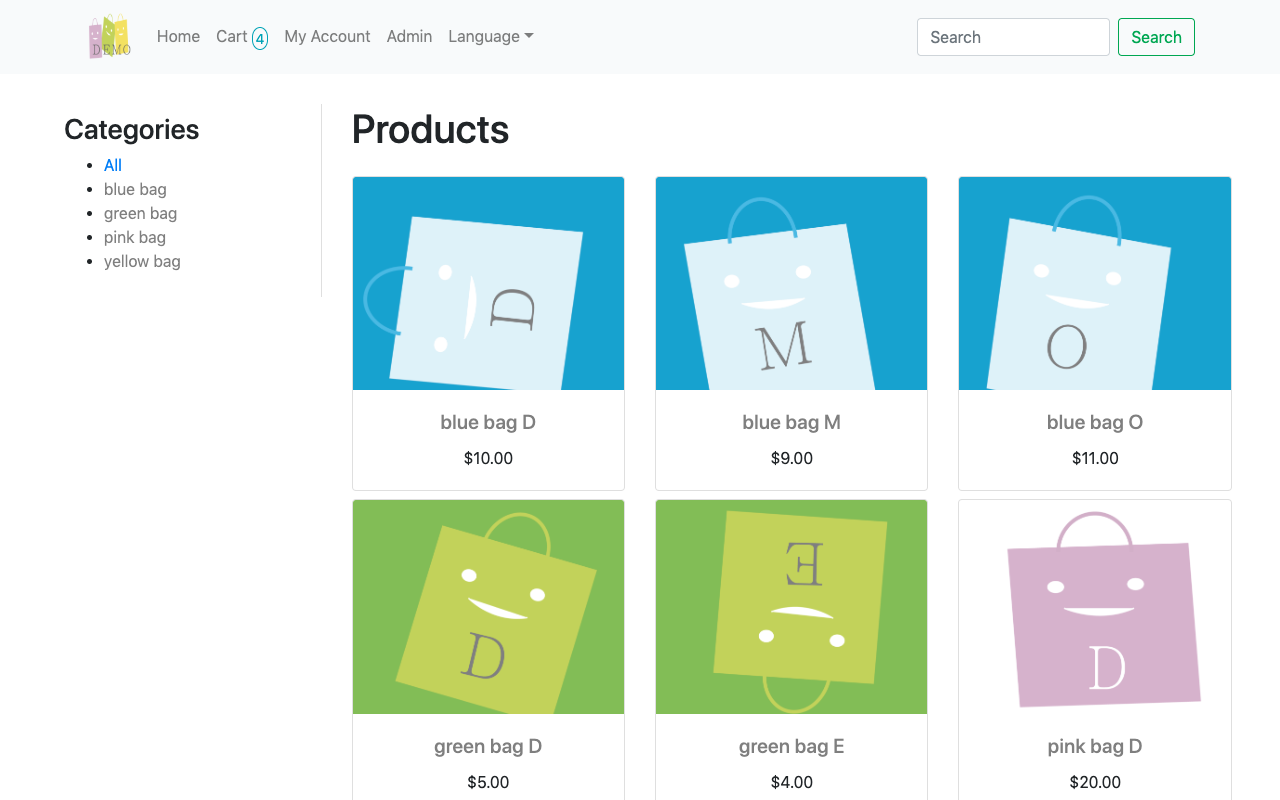
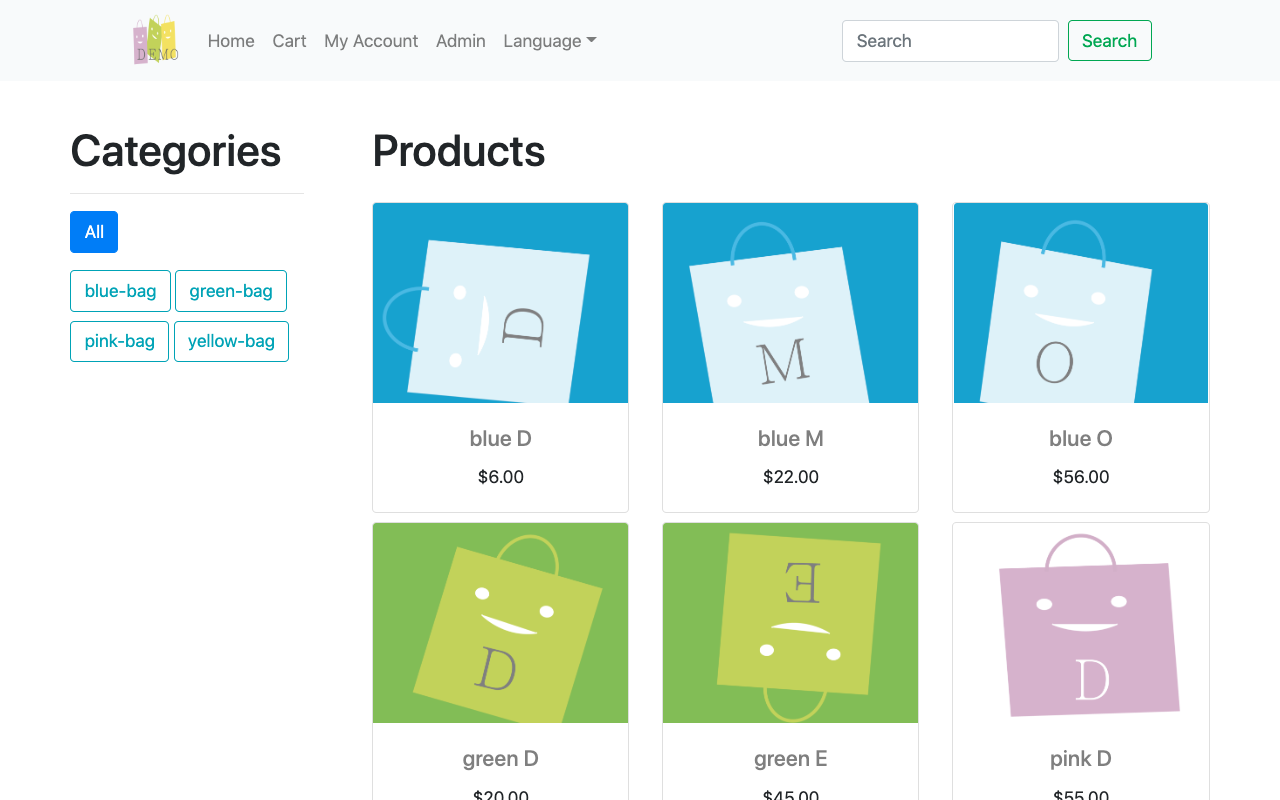
Fix RWD

diff --git a/demo/templates/shop/homepage.html b/demo/templates/shop/homepage.html
@@ -13,8 +13,8 @@
 <!-- jumbotron - Techniques & Tools -->
 <div class="jumbotron jumbotron-fluid mt-5 text-center demo-white">
     <div class="container">
-        <h1 class="display-3">{% trans "Techniques & Tools" %}</h1>
-        <div class="row mt-4">
+        <h1 class="display-5">{% trans "Techniques & Tools" %}</h1>
+        <div class="row px-4 mt-5">
             <div class="col-md-3 col-lg-3 col-xl-3 mt-3">
                 <img src="{% static 'images/Django.jpg' %}" width="80%" height="70%">
                 <p class="lead mt-2">{% trans "Backend - Django" %}</p>
@@ -24,8 +24,8 @@
                 <p class="lead mt-2">{% trans "Frontend - Bootstrap" %}</p>
             </div>
             <div class="col-md-3 col-lg-3 col-xl-3 mt-3">
-                <img src="{% static 'images/SQLite.jpg' %}" width="80%" height="70%">
-                <p class="lead mt-2">{% trans "Database - SQLite" %}</p>
+                <img src="{% static 'images/MySQL.png' %}" width="80%" height="70%">
+                <p class="lead mt-2">{% trans "Database - MySQL" %}</p>
             </div>
             <div class="col-md-3 col-lg-3 col-xl-3 mt-3">
                 <img src="{% static 'images/Redis.png' %}" width="80%" height="70%">
@@ -54,8 +54,8 @@
 <!-- jumbotron - About -->
 <div class="jumbotron jumbotron-fluid mt-5 text-center demo-sky-blue">
     <div class="container">
-        <h1 class="display-1">{% trans "About" %}</h1>
-        <p class="lead">{% trans "This is a demo shopping site, you can sign in in with social media accounts,<br> add goods to your cart, and receive an email after checking out." %}</p>
+        <h1 class="display-5">{% trans "About" %}</h1>
+        <p class="lead">{% trans "This is a demo shopping site, you can sign in in with third-party accounts,<br> add goods to your cart, and receive an email after checking out." %}</p>
     </div>
 </div>
 <!--/ jumbotron - About -->
@@ -63,10 +63,10 @@
 <!-- categories -->
 <div class="container-fluid px-5 mt-5">
     <div class="mt-5 text-center">
-        <h1 class="display-4">{% trans "Categories" %}</h1>
+        <h1 class="display-5">{% trans "Categories" %}</h1>
     </div>
 
-    <div class="row px-5 mt-5">
+    <div class="row px-4 mt-5">
         {% for category in categories %}
             <div class="col-md-3 col-lg-3 col-xl-3 mt-3">
                 <div class="card">
@@ -98,24 +98,24 @@
     <div class="container">
         <h1 class="display-5">{% trans "Contact Me" %}</h1>
         <div class="row mt-4">
-            <div class="col-3" title="github">
+            <div class="col-md-3 col-lg-3 col-xl-3 mt-3" title="github">
                 <a href="https://github.com/ZoeLiao">
                     <img src="{% static 'images/github.svg' %}" width="60%" height="60%">
                 </s>
             </div>
-            <div class="col-3" title="medium">
+            <div class="col-md-3 col-lg-3 col-xl-3 mt-3" title="medium">
                 <a href="https://medium.com/@zoejoyuliao">
                     <img src="{% static 'images/medium.svg' %}" width="60%" height="60%">
                 </s>
             </div>
-            <div class="col-3" title="blog">
+            <div class="col-md-3 col-lg-3 col-xl-3 mt-3" title="blog">
                 <a href="https://zoeliao.netlify.com/">
                     <img src="{% static 'images/netlify.png' %}" width="50%" height="60%">
                 </a>
             </div>
-            <div class="col-3" title="email">
+            <div class="col-md-3 col-lg-3 col-xl-3 mt-3" title="email">
                 <a href="mailto:zoejoyuliao@gmail.com">
-                    <img src="{% static 'images/mail.png' %}" width="50%" height="60%">
+                    <img src="{% static 'images/mail.png' %}" width="40%" height="50%">
                 </a>
             </div>
         </div>

diff --git a/demo/templates/shop/product/list.html b/demo/templates/shop/product/list.html
@@ -2,10 +2,6 @@
 {% load i18n %}
 {% load static %}
 
-{% block extra_style_sheet %}
-<link href="{% static 'css/list.css' %}" rel="stylesheet">
-{% endblock %}
-
 {% block title %}
     {% if category %}
         {{ category.name }}
@@ -18,23 +14,23 @@
     <div class="container-fluid px-5 mt-5">
         <div class="row">
             <div class="col-md-3 col-lg-3 col-xl-3">
-                <div class="sidebar_nav px-3 py-2">
-                    <h3>{% trans "Categories" %}</h3>
-                    <ul>
-                        <li {% if not category %} class="selected" {% endif %}>
-                            <a href="{% url 'shop:product_list' %}" {% if category.slug != c.slug %}class="demo-link demo-text-black"{% endif %}>{% trans "All" %}</a>
-                        </li>
+                <div class="px-3 py-2">
+                    <h1>{% trans "Categories" %}</h1>
+                    <hr>
+                    <div class="mt-3">
+                        <div class="mb-3">
+                            <button onclick="window.location.href='{% url 'shop:product_list' %}'" class="btn btn-outline-primary {% if category.slug == c.slug %}active{% endif %}">{% trans "All" %}</button>
+                        </div>
+
                         {% for c in categories %}
-                        <li {% if category.slug == c.slug %} class="selected" {% else %}{% endif %}>
-                            <a href="{{ c.get_absolute_url }}" {% if category.slug != c.slug %}class="demo-link demo-text-black"{% endif %}>{{ c.name }}</a>
-                            </li>
+                            <button onclick="window.location.href='{{ c.get_absolute_url }}'" class="btn btn-outline-info mb-2 {% if category.slug == c.slug %}active{% endif %}">{{ c.name }}</button>
                         {% endfor %}
-                    </ul>
+                    </div>
                 </div>
             </div>
 
             <div class="col-md-9 col-lg-9 col-xl-9">
-                <div id="main" class="product-list">
+                <div id="main" class="product-list px-3 py-2">
                     <h1>
                         {% if category %}
                             {{ category.name }}

diff --git a/demo/templates/shop/carousel.html b/demo/templates/shop/carousel.html
@@ -9,22 +9,22 @@
         </ol>
         <div class="carousel-inner">
             <div class="carousel-item active">
-                <img src="{% static "images/carousel_01.png"%}" class="d-block w-100" alt="carousel_01">
-                <div class="carousel-caption d-none d-md-block">
+                <img src="{% static "images/carousel_01.png"%}" class="d-block w-100 h-50vh" alt="carousel_01">
+                <div class="carousel-caption d-md-block">
                     <h1 class="carousel-slide-label">DEMO</h1>
                     <p class="carousel-slide-des">{% trans "This is a demo shopping site" %}</p>
                 </div>
             </div>
             <div class="carousel-item">
-                <img src="{% static "images/carousel_02.png"%}" class="d-block w-100" alt="carousel_02">
-                <div class="carousel-caption d-none d-md-block">
-                    <h1 class="carousel-slide-label">{% trans "Product Categories for selling" %}</h1>
+                <img src="{% static "images/carousel_02.png"%}" class="d-block w-100 h-50vh" alt="carousel_02">
+                <div class="carousel-caption d-md-block">
+                    <h1 class="carousel-slide-label">{% trans "Categories" %}</h1>
                     <p class="carousel-slide-des">{% trans "Bags with blue, pink, yellow and green" %}</p>
                 </div>
             </div>
             <div class="carousel-item">
-                <img src="{% static "images/carousel_03.png"%}" class="d-block w-100" alt="carousel_03">
-                <div class="carousel-caption d-none d-md-block">
+                <img src="{% static "images/carousel_03.png"%}" class="d-block w-100 h-50vh" alt="carousel_03">
+                <div class="carousel-caption d-md-block">
                     <h1 class="carousel-slide-label">{% trans "Products" %}</h1>
                     <p class="carousel-slide-des">{% trans "Blue, pink, yellow, and green bags contain different letters" %}</p>
                 </div>

diff --git a/demo/templates/shop/product/detail.html b/demo/templates/shop/product/detail.html
@@ -17,18 +17,18 @@
 {% block content %}
     <div class="container-fluid px-5 mt-5">
         <div class="row">
-            <div class="col-4">
+            <div class="col-md-4 col-lg-4 col-xl-4 mb-3">
                 <img src="{% if product.image %}{{ product.image.url }}{% else %}{% static 'images/no_image.png' %}{% endif %}" style="width:100%;height:100%">
             </div>
 
-            <div class="col-8">
+            <div class="col-md-8 col-lg-8 col-xl-8 mt-8">
                 <div class="card text-center">
                     <div class="card-header">
                         <h3>{{ product.name }}</h3>
                     </div>
                     <div class="card-body">
                         <h5 class="card-title">
-                            <a href="{{ product.category.get_absolute_url }}">{{ product.category }}</a>
+                            <button class="btn btn-outline-info" onclick="window.location.href='{{ product.category.get_absolute_url }}'">{{ product.category }}</button>
                         </h5>
                         <p class="card-text">{{ product.description|linebreaks }}</p>
                         <p class="card-text demo-price">${{ product.price }}</p>

diff --git a/demo/static/css/base.css b/demo/static/css/base.css
@@ -1,15 +1,17 @@
 
-@media (min-width: 992px)
-.navbar-expand-lg .navbar-collapse {
-    display: flex !important;
+@media (min-width: 768px) {
+    .navbar-expand-lg .navbar-collapse {
+        display: flex !important;
+    }
 }
 
-@media (min-width: 992px)
-.navbar-expand-lg {
-    -webkit-box-direction: normal;
-    flex-direction: row;
-    flex-wrap: nowrap;
-    justify-content: flex-start;
+@media (min-width: 768px) {
+    .navbar-expand-lg {
+        -webkit-box-direction: normal;
+        flex-direction: row;
+        flex-wrap: nowrap;
+        justify-content: flex-start;
+    }
 }
 
 .navbar-collapse {
@@ -38,6 +40,12 @@
 
 .carousel-slide-des {
     color: #263238;
+}
+
+@media (max-width: 350px) {
+    .h-50vh {
+        height: 50vh;
+    }
 }
 
 .non-border {

diff --git a/demo/templates/shop/base.html b/demo/templates/shop/base.html
@@ -124,7 +124,7 @@
 
     {% block extra_script %}{% endblock %}
     <script>
-        { % block extra_js %} { % endblock %}
+        {% block extra_js %}  {% endblock %}
     </script>
 </body>
 

diff --git a/README.md b/README.md
@@ -143,3 +143,7 @@
 - `docker exec -it <Web Container ID> bash`
 - `python manage.py collectstatic`
 - `python manage.py createsuperuser`
+
+## Git
+- Git doesn't notice change in image:
+    - `git rm --cached path/to/image.jpg`
